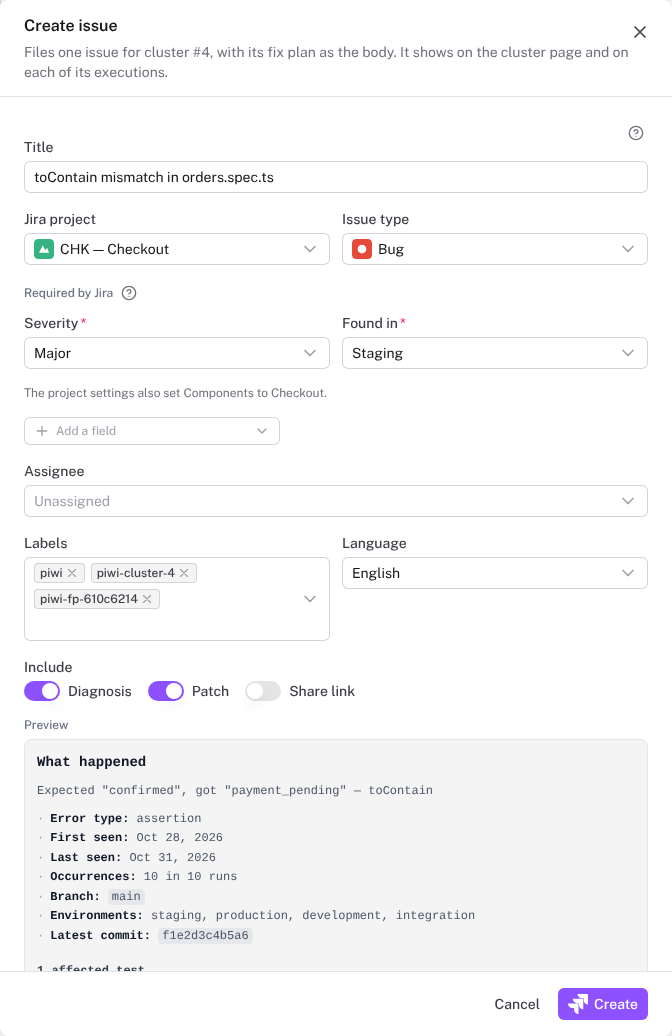
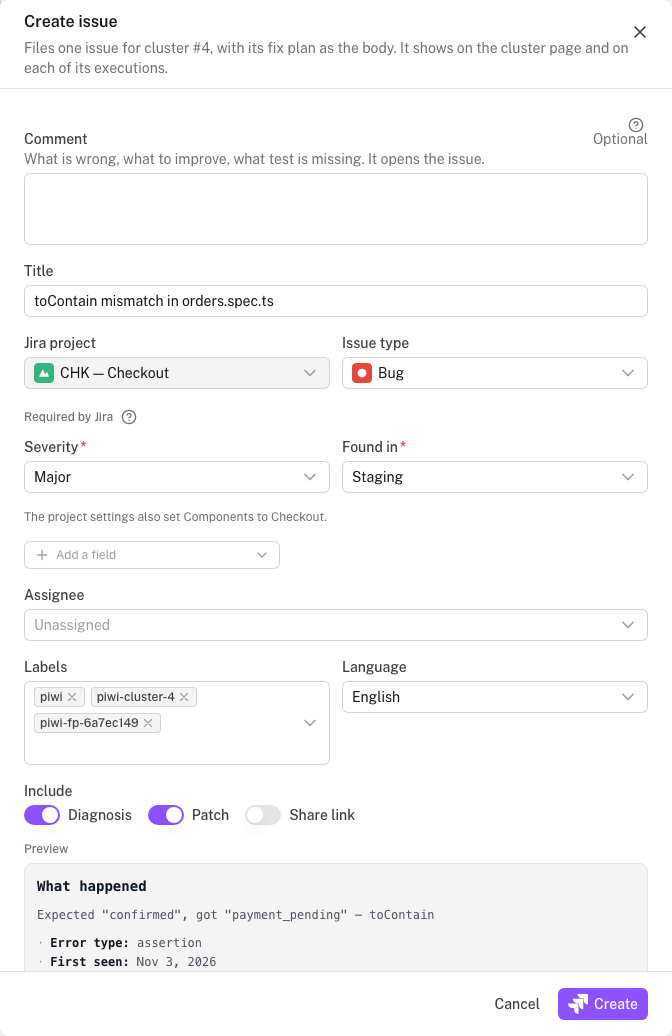
fix(app): retry a create Jira never received, and say what a lost answer does
- A create whose request never left (a refused connection, an unknown
  host) clears its marker, so the outbox retries it as before. Only a
  timeout or a connection lost after sending keeps the marker and ends
  as Outcome unknown.
- The Filing queued toast, the API description and the Issues about a
  run or a test page say so.
- The Create issue modal screenshot shows the Comment field.

diff --git a/apps/application/server/api/integrations/issues.post.ts b/apps/application/server/api/integrations/issues.post.ts
@@ -13,7 +13,7 @@ defineRouteMeta({
     tags: ['Integrations'],
     summary: 'Create an issue from a failure, a run or a bug report',
     description:
-      "Enqueues a create-issue action and makes one immediate attempt. `comment` is the caller's own words, placed first in the issue under their name. A run (`test_run`), and an execution with no failure cluster, may get several issues: each `submissionId` (one per opening of the create dialog) files at most one, and a request without it always files a new one. A duplicate of an issue already filed for the same cluster (from the cluster or any of its executions) or the same bug report is a no-op answered with `alreadyFiled`, and its `comment`, when given, is added to that issue (`commentAdded`); once that issue's link is removed or the issue is Done, the next create files a new one. When the tracker does not answer, the response is `pending` with the tracker's error: the outbox retries it and links the issue once it is created, and creating again retries it at once. A filing whose attempt stopped during the call to the tracker (a restart) fails with *Outcome unknown* rather than filing twice: check the tracker, then create again. `fields` sets tracker fields (field id → `{ value, label }`, the value as the tracker API takes it) over the project's field defaults. When the create screen still has an empty required field, nothing is sent: the response is `failed` with `missingFields`. A refusal from the tracker comes back with `fieldErrors` when it names fields, and is not retried; creating again replaces the refused request. `include.includeShareLink` creates one share link for the issue, recorded as the caller's, and needs `share:create` on the project: without it the issue carries no share link. `connectionId` must be the connection the project is bound to (its Issue tracker settings): any other connection, or a project bound to none, is refused with 403. Requires `issue:create` (Contributor and above on the project).",
+      "Enqueues a create-issue action and makes one immediate attempt. `comment` is the caller's own words, placed first in the issue under their name. A run (`test_run`), and an execution with no failure cluster, may get several issues: each `submissionId` (one per opening of the create dialog) files at most one, and a request without it always files a new one. A duplicate of an issue already filed for the same cluster (from the cluster or any of its executions) or the same bug report is a no-op answered with `alreadyFiled`, and its `comment`, when given, is added to that issue (`commentAdded`); once that issue's link is removed or the issue is Done, the next create files a new one. When the tracker does not answer, the response is `pending` with the tracker's error: the outbox retries it and links the issue once it is created, and creating again retries it at once. A filing the tracker may have received without its answer coming back (a timeout, a connection lost after sending, a restart during the call) is never sent again: its next attempt fails with *Outcome unknown*. Check the tracker, then create again. `fields` sets tracker fields (field id → `{ value, label }`, the value as the tracker API takes it) over the project's field defaults. When the create screen still has an empty required field, nothing is sent: the response is `failed` with `missingFields`. A refusal from the tracker comes back with `fieldErrors` when it names fields, and is not retried; creating again replaces the refused request. `include.includeShareLink` creates one share link for the issue, recorded as the caller's, and needs `share:create` on the project: without it the issue carries no share link. `connectionId` must be the connection the project is bound to (its Issue tracker settings): any other connection, or a project bound to none, is refused with 403. Requires `issue:create` (Contributor and above on the project).",
     'x-required-permission': 'issue:create',
   },
 });

diff --git a/apps/application/tests/unit/integrations-run-issue.test.ts b/apps/application/tests/unit/integrations-run-issue.test.ts
@@ -44,6 +44,8 @@ let issueSeq = 0;
 let failCreatesWith: number | null = null;
 /** Creates the next issues, then loses the connection before Jira's answer arrives. */
 let dropCreateAnswers = false;
+/** Refuses the connection for the next creates, so nothing reaches Jira. */
+let refuseConnections = false;
 
 function json(body: unknown, status = 200): Response {
   return new Response(JSON.stringify(body), { status, headers: { 'Content-Type': 'application/json' } });
@@ -53,6 +55,7 @@ async function jira(input: RequestInfo | URL, init?: RequestInit): Promise<Respo
   const url = new URL(String(input));
   if (/\/rest\/api\/3\/issue\/createmeta\//.test(url.pathname)) return json({ total: 0, fields: [] });
   if (url.pathname === '/rest/api/3/issue' && init?.method === 'POST') {
+    if (refuseConnections) throw new TypeError('fetch failed', { cause: { code: 'ECONNREFUSED' } });
     if (failCreatesWith) return json({ errorMessages: ['Unavailable'] }, failCreatesWith);
     issueSeq += 1;
     creates.push(String(init.body));
@@ -180,6 +183,7 @@ beforeEach(() => {
   updates = [];
   failCreatesWith = null;
   dropCreateAnswers = false;
+  refuseConnections = false;
 });
 
 const file = (entityType: 'test_run' | 'test_runs_case' | 'failure_cluster', entityId: number, extra = {}) =>
@@ -302,6 +306,16 @@ describe('a create whose worker stopped during the call', () => {
     failCreatesWith = null;
     const retried = await file('test_run', 7, { submissionId: '00000000-0000-4000-8000-000000000006' });
     expect(retried).toMatchObject({ status: 'done' });
+    expect(creates).toHaveLength(1);
+  });
+
+  test('a create Jira never received clears the marker, so the retry files', async () => {
+    refuseConnections = true;
+    const submissionId = '00000000-0000-4000-8000-000000000008';
+    const pending = await file('test_run', 7, { submissionId });
+    expect(pending).toMatchObject({ status: 'pending' });
+    refuseConnections = false;
+    expect(await file('test_run', 7, { submissionId })).toMatchObject({ status: 'done' });
     expect(creates).toHaveLength(1);
   });
 

diff --git a/apps/application/server/utils/integrations/actions.ts b/apps/application/server/utils/integrations/actions.ts
@@ -400,13 +400,23 @@ async function issueShareLink(
   return { id: minted.id, document: withShareToken(payload.document, minted.token) };
 }
 
+/** Connection errors raised before a request is sent: the tracker never saw it. */
+const UNSENT_ERROR_CODES = new Set(['ECONNREFUSED', 'ENOTFOUND', 'EAI_AGAIN', 'UND_ERR_CONNECT_TIMEOUT']);
+
 /**
- * A tracker answer that says the issue was not created: a refusal, a rate limit or a 503. A timeout, a lost
- * connection or another 5xx may come after the tracker created it.
+ * Whether a create's error says the issue was not created: the tracker answered with a refusal, a rate limit or a
+ * 503, or the request never left (a refused connection, an unknown host). A timeout, a connection lost after
+ * sending or another 5xx may come after the tracker created it.
  */
 function trackerDeclined(err: unknown): boolean {
   const status = (err as { status?: unknown } | null)?.status;
-  return typeof status === 'number' && (status < 500 || status === 503);
+  if (typeof status === 'number') return status < 500 || status === 503;
+  for (let cause: unknown = err, depth = 0; cause && depth < 4; depth++) {
+    const code = (cause as { code?: unknown }).code;
+    if (typeof code === 'string' && UNSENT_ERROR_CODES.has(code)) return true;
+    cause = (cause as { cause?: unknown }).cause;
+  }
+  return false;
 }
 
 /** Perform one create-issue against the tracker and record the link + result. */

diff --git a/apps/application/app/components/integrations/CreateIssueModal.vue b/apps/application/app/components/integrations/CreateIssueModal.vue
@@ -440,7 +440,8 @@ async function create() {
     } else if (res.status === 'pending') {
       toast.add({
         title: 'Filing queued',
-        description: 'Jira did not answer yet. Piwi retries and links the issue once it is created.',
+        description:
+          'Jira did not answer yet. Piwi retries and links the issue once it is created, or stops at Outcome unknown when Jira may have it already.',
         color: 'info',
       });
       holdSubmission(submissionSubject.value, submissionId.value);

diff --git a/apps/docs/features/run-issues.md b/apps/docs/features/run-issues.md
@@ -37,9 +37,9 @@ and [project binding](./issue-tracking#the-project-binding) as an issue about a 
 
 A run, or a test with no cluster, **can have several issues**: the modal lists the ones already linked and files a new
 one. Each opening of the modal files at most one, so a second click on **Create**, or opening it again while a
-filing waits on Jira, never files twice. Any create, a cluster's too, whose attempt stopped during the call to Jira (the server
-restarted) fails with **Outcome unknown** rather than risking a second issue: check Jira for it, then create it again
-if it is not there.
+filing waits on Jira, never files twice. Any create, a cluster's too, that Jira may have received without its answer
+coming back (a timeout, or the server restarted during the call) fails with **Outcome unknown** rather than risking a
+second issue: check Jira for it, then create it again if it is not there.
 
 ## Limits
 

diff --git a/apps/docs/features/issue-tracking.md b/apps/docs/features/issue-tracking.md
@@ -15,7 +15,7 @@ is linked back as the cluster's *known issue*, and the key travels wherever the 
 It is **off until an [administrator connects Jira](/operate/integrations#connecting-jira-cloud)**.
 
 <figure>
-  <img src="/screenshots/create-issue-modal.png" alt="The Create issue modal on a failure cluster: an editable title, the Jira project and issue-type fields, include toggles, and a preview of the fix-plan body">
+  <img src="/screenshots/create-issue-modal.png" alt="The Create issue modal on a failure cluster: an optional comment, an editable title, the Jira project and issue-type fields, include toggles, and a preview of the fix-plan body">
   <figcaption>The Create issue modal on a failure cluster.</figcaption>
 </figure>
 
